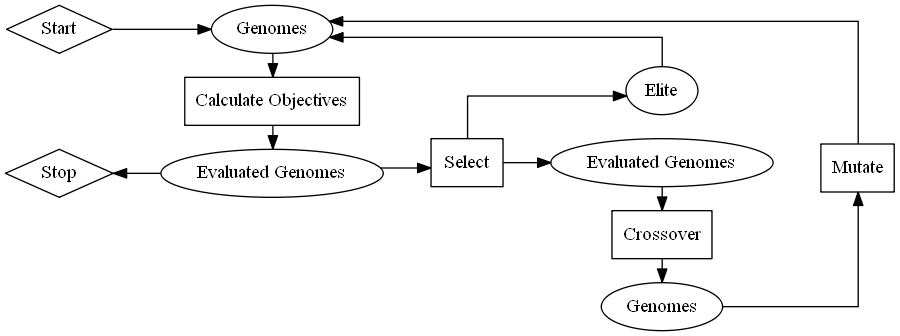
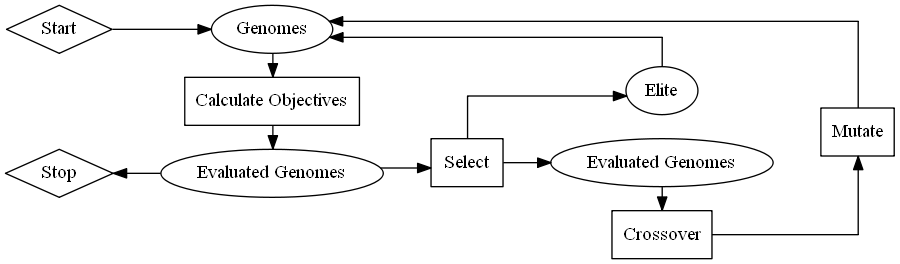
more writeup, fixed GA diagram

diff --git a/analysis/Report.tex b/analysis/Report.tex
@@ -545,10 +545,10 @@
         \item{\textbf{Gene:} The encoding of a trait, and roughly it stores the current
             setting for the trait (e.g. eye colour, blue, brown, etc). There is a set
             from which any single gene can pull its data from. In nature its the chemical
-            bases C, T, A, G}
+            bases  of DNA}
         \item{\textbf{Genome:} The complete collection of all the genes is called a
             genome}
-        \item{\textbf{Crossover:} During reproduction each parent's genes will be
+        \item{\textbf{Reproduction:} During reproduction each parent's genomes will be
             combined and crossed over creating a child which has a combination of
             the traits of its parents}
         \item{\textbf{Mutation:} During crossover there is a chance a single gene
@@ -559,15 +559,56 @@
             by nature, but by an \textbf{Objective} function}
     \end{itemize}
 
-    
+    The general procdeure of a GA is better explained with a diagram:
 
-    \begin{figure}[h]
+    \begin{figure}[h] % fig:GA
         \centering
         \includegraphics[width=\textwidth]{GA}
-        \caption{Life Cycle of A Genetic Algorithm}\label{fig:GA}
+        \caption{"Life Cycle" of A Genetic Algorithm}\label{fig:GA}
     \end{figure}
 
-    Look figure \ref{fig:GA} is a cool image.
+    One note about figure \ref{fig:GA} is that the decision to go to the "Stop"
+    state is determined by some outside factor i.e. execution time. Otherwise
+    it repeats infinitly - just like real life. Applying this generic algorithm to 
+    our specific problem. We simply need to
+    define each state in this diagram in the context of our problem.
+
+    The \textit{Genomes} state for our problem is the set of \(f\)'s. Each gene is an
+    \(f\) for a specific stock. But we have addtional constraints, which is for 
+    any genome \((f_1...f_m)\) made up of genes \(f_i\). The genome \textbf{must}
+    abide by these laws:
+
+    \begin{equation*}
+        0 < \left(
+            \displaystyle\sum^{m}_{i=1} f_i
+        \right) <= 1
+    \end{equation*}
+    \begin{equation*}
+        \forall f_i \in (f_1...f_m) \to \left(
+            0 < f_i <= 1
+        \right)
+    \end{equation*}
+
+    which more simply states, we can't bet more than our entire wealth over all the stocks or
+    a negative bet. And on a single stock we can't place a negative bet more than our
+    entire portfolio.
+
+    The \textit{Select} state is a function which takes all pairs of evaluated genomes
+    and thier fitness. And based on how well each genome performs, will cull the
+    list of genomes to a smaller list. This smaller list is the list of genomes
+    which act as parents for the next generation.
+
+    The \textit{Elite} state is another output from the select function. Which is
+    the most fit genomes have thier lifespan extended into the next generation.
+    Importantly this elite population be very small, aswell as avoiding the
+    chance to its genes to be destroyed by crossover and mutation. \cite{DeJong}
+    This allows the best genome to always stay alive, and stops the GA from
+    having to re-discover previously good results.
+
+    The \textit{Crossover} state can simply be the same as any generic GA implementation,
+    as we have no extra constraints to worry about. TODO: Explain crossover choice
+
+    The \textit{Mutate} state needs to make sure it follows the same constraints
 
     TODO: Explain Multi-Variable Genetic Algorithm
 
